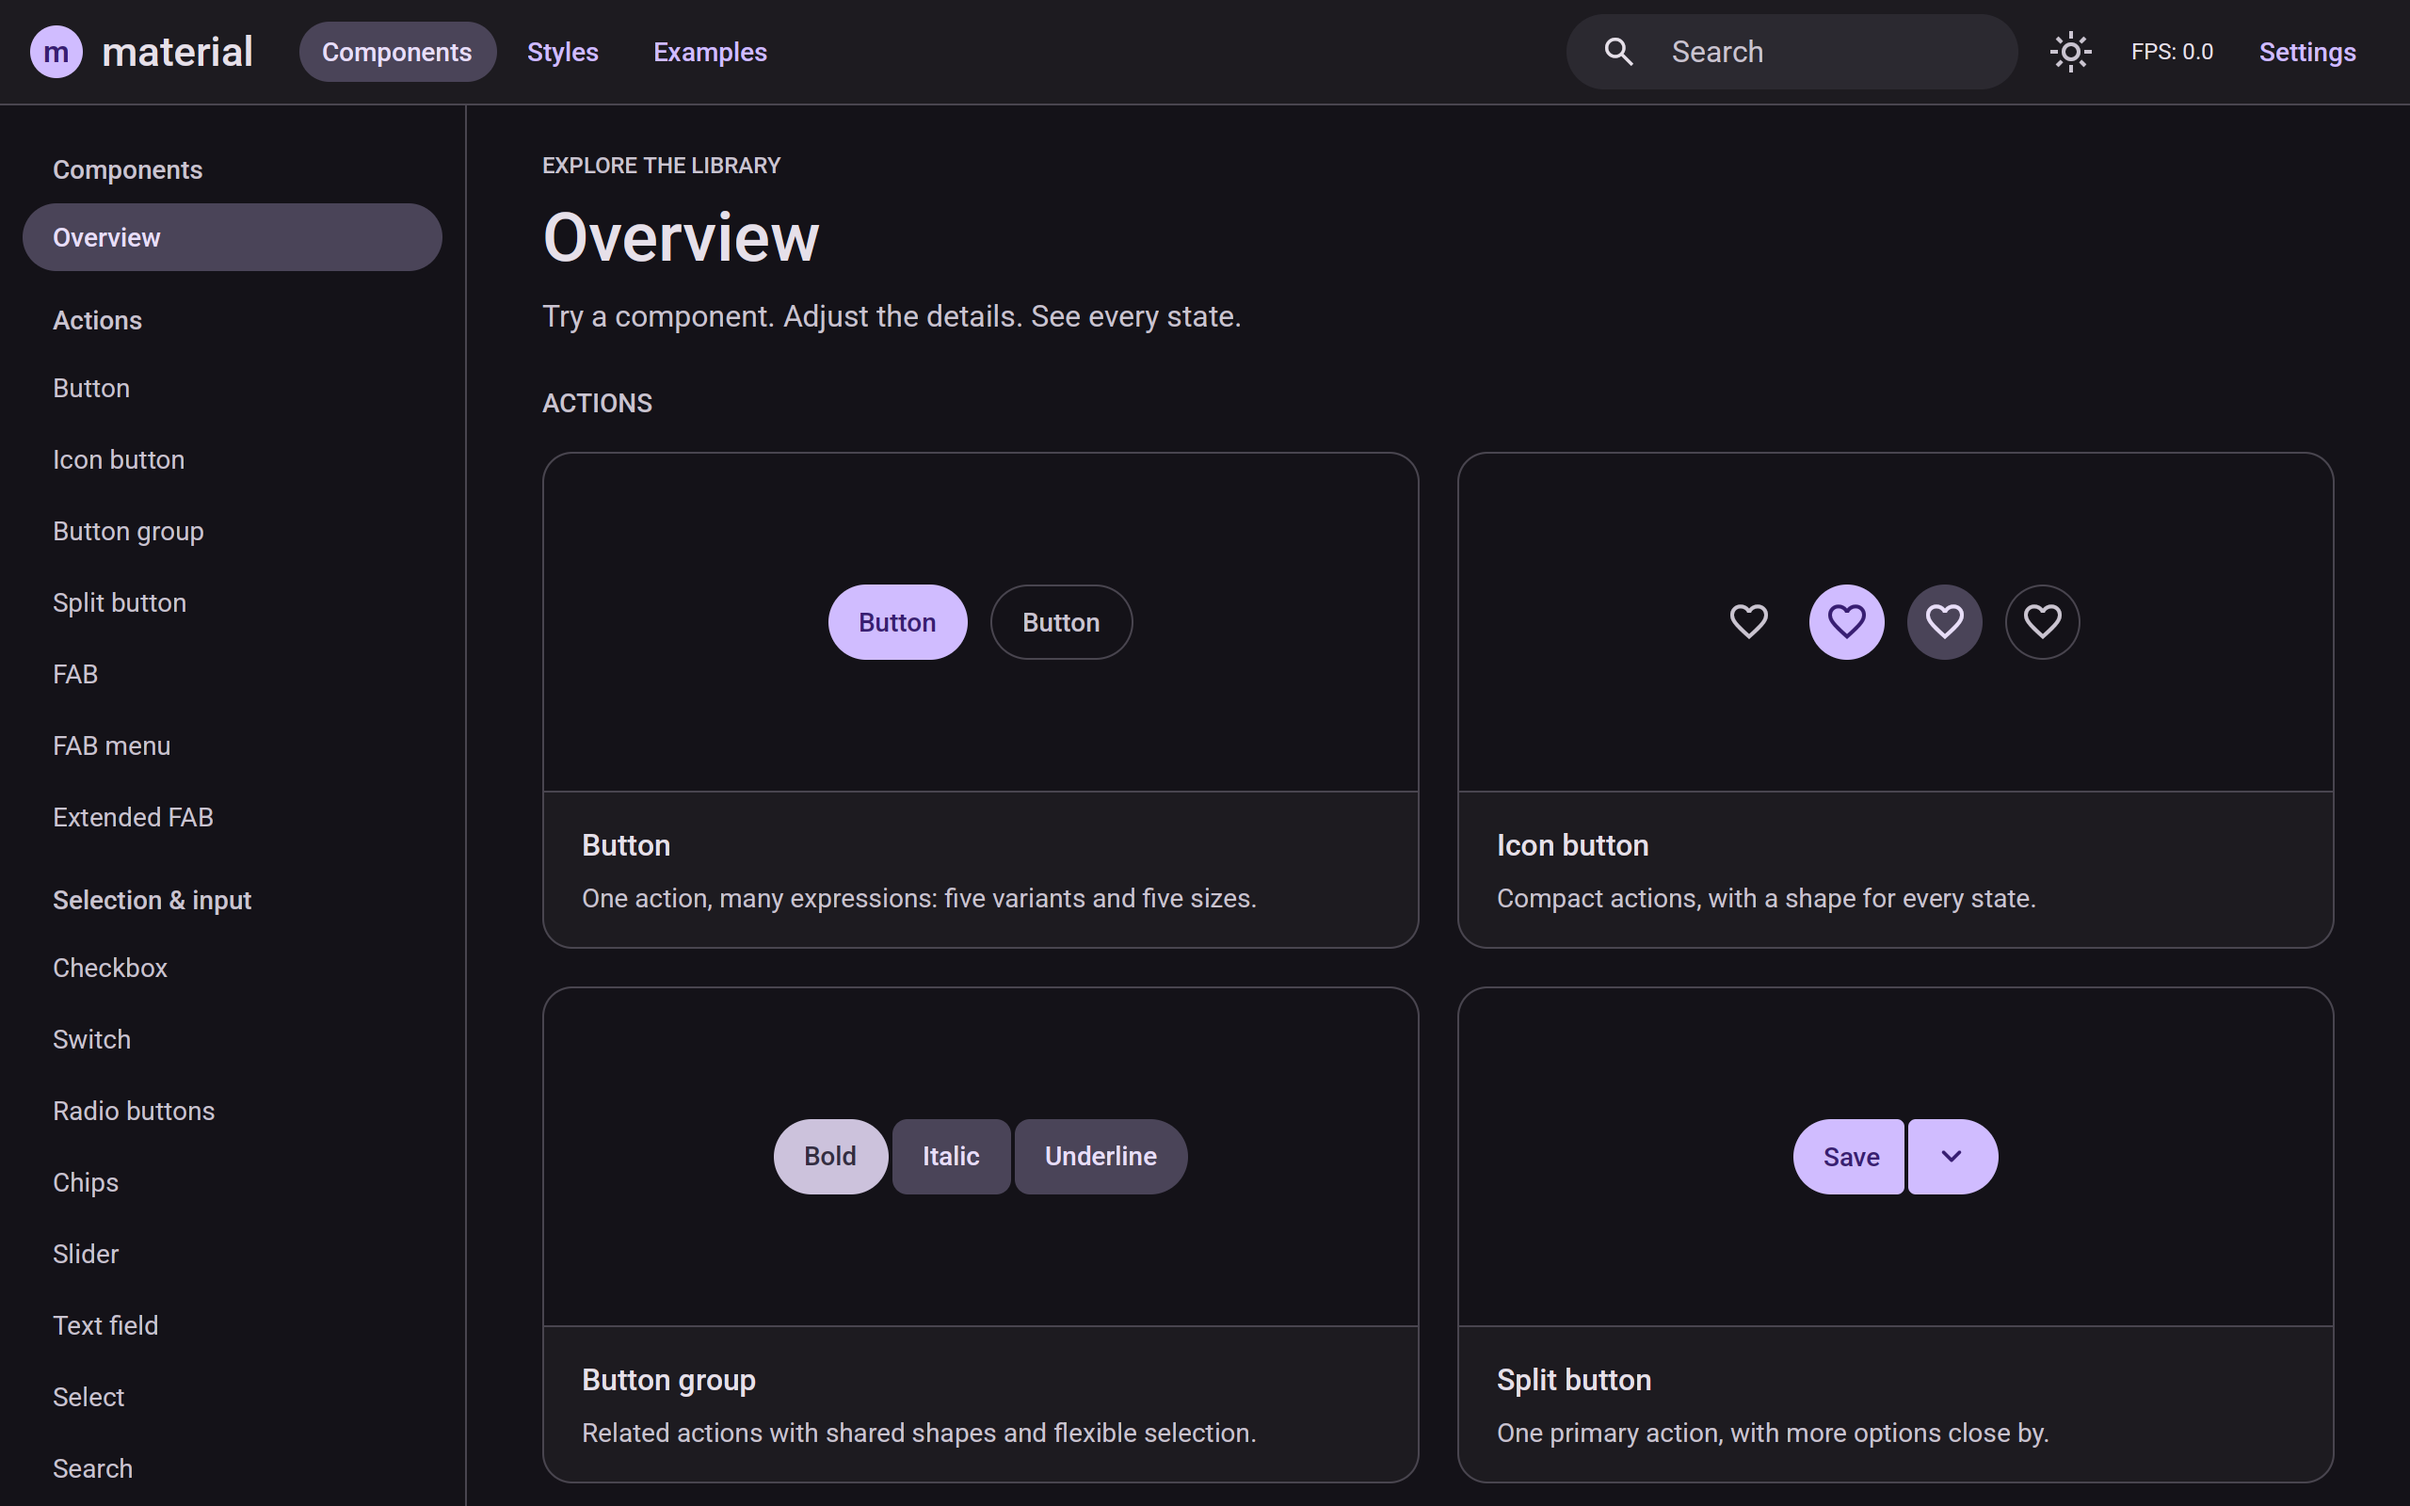
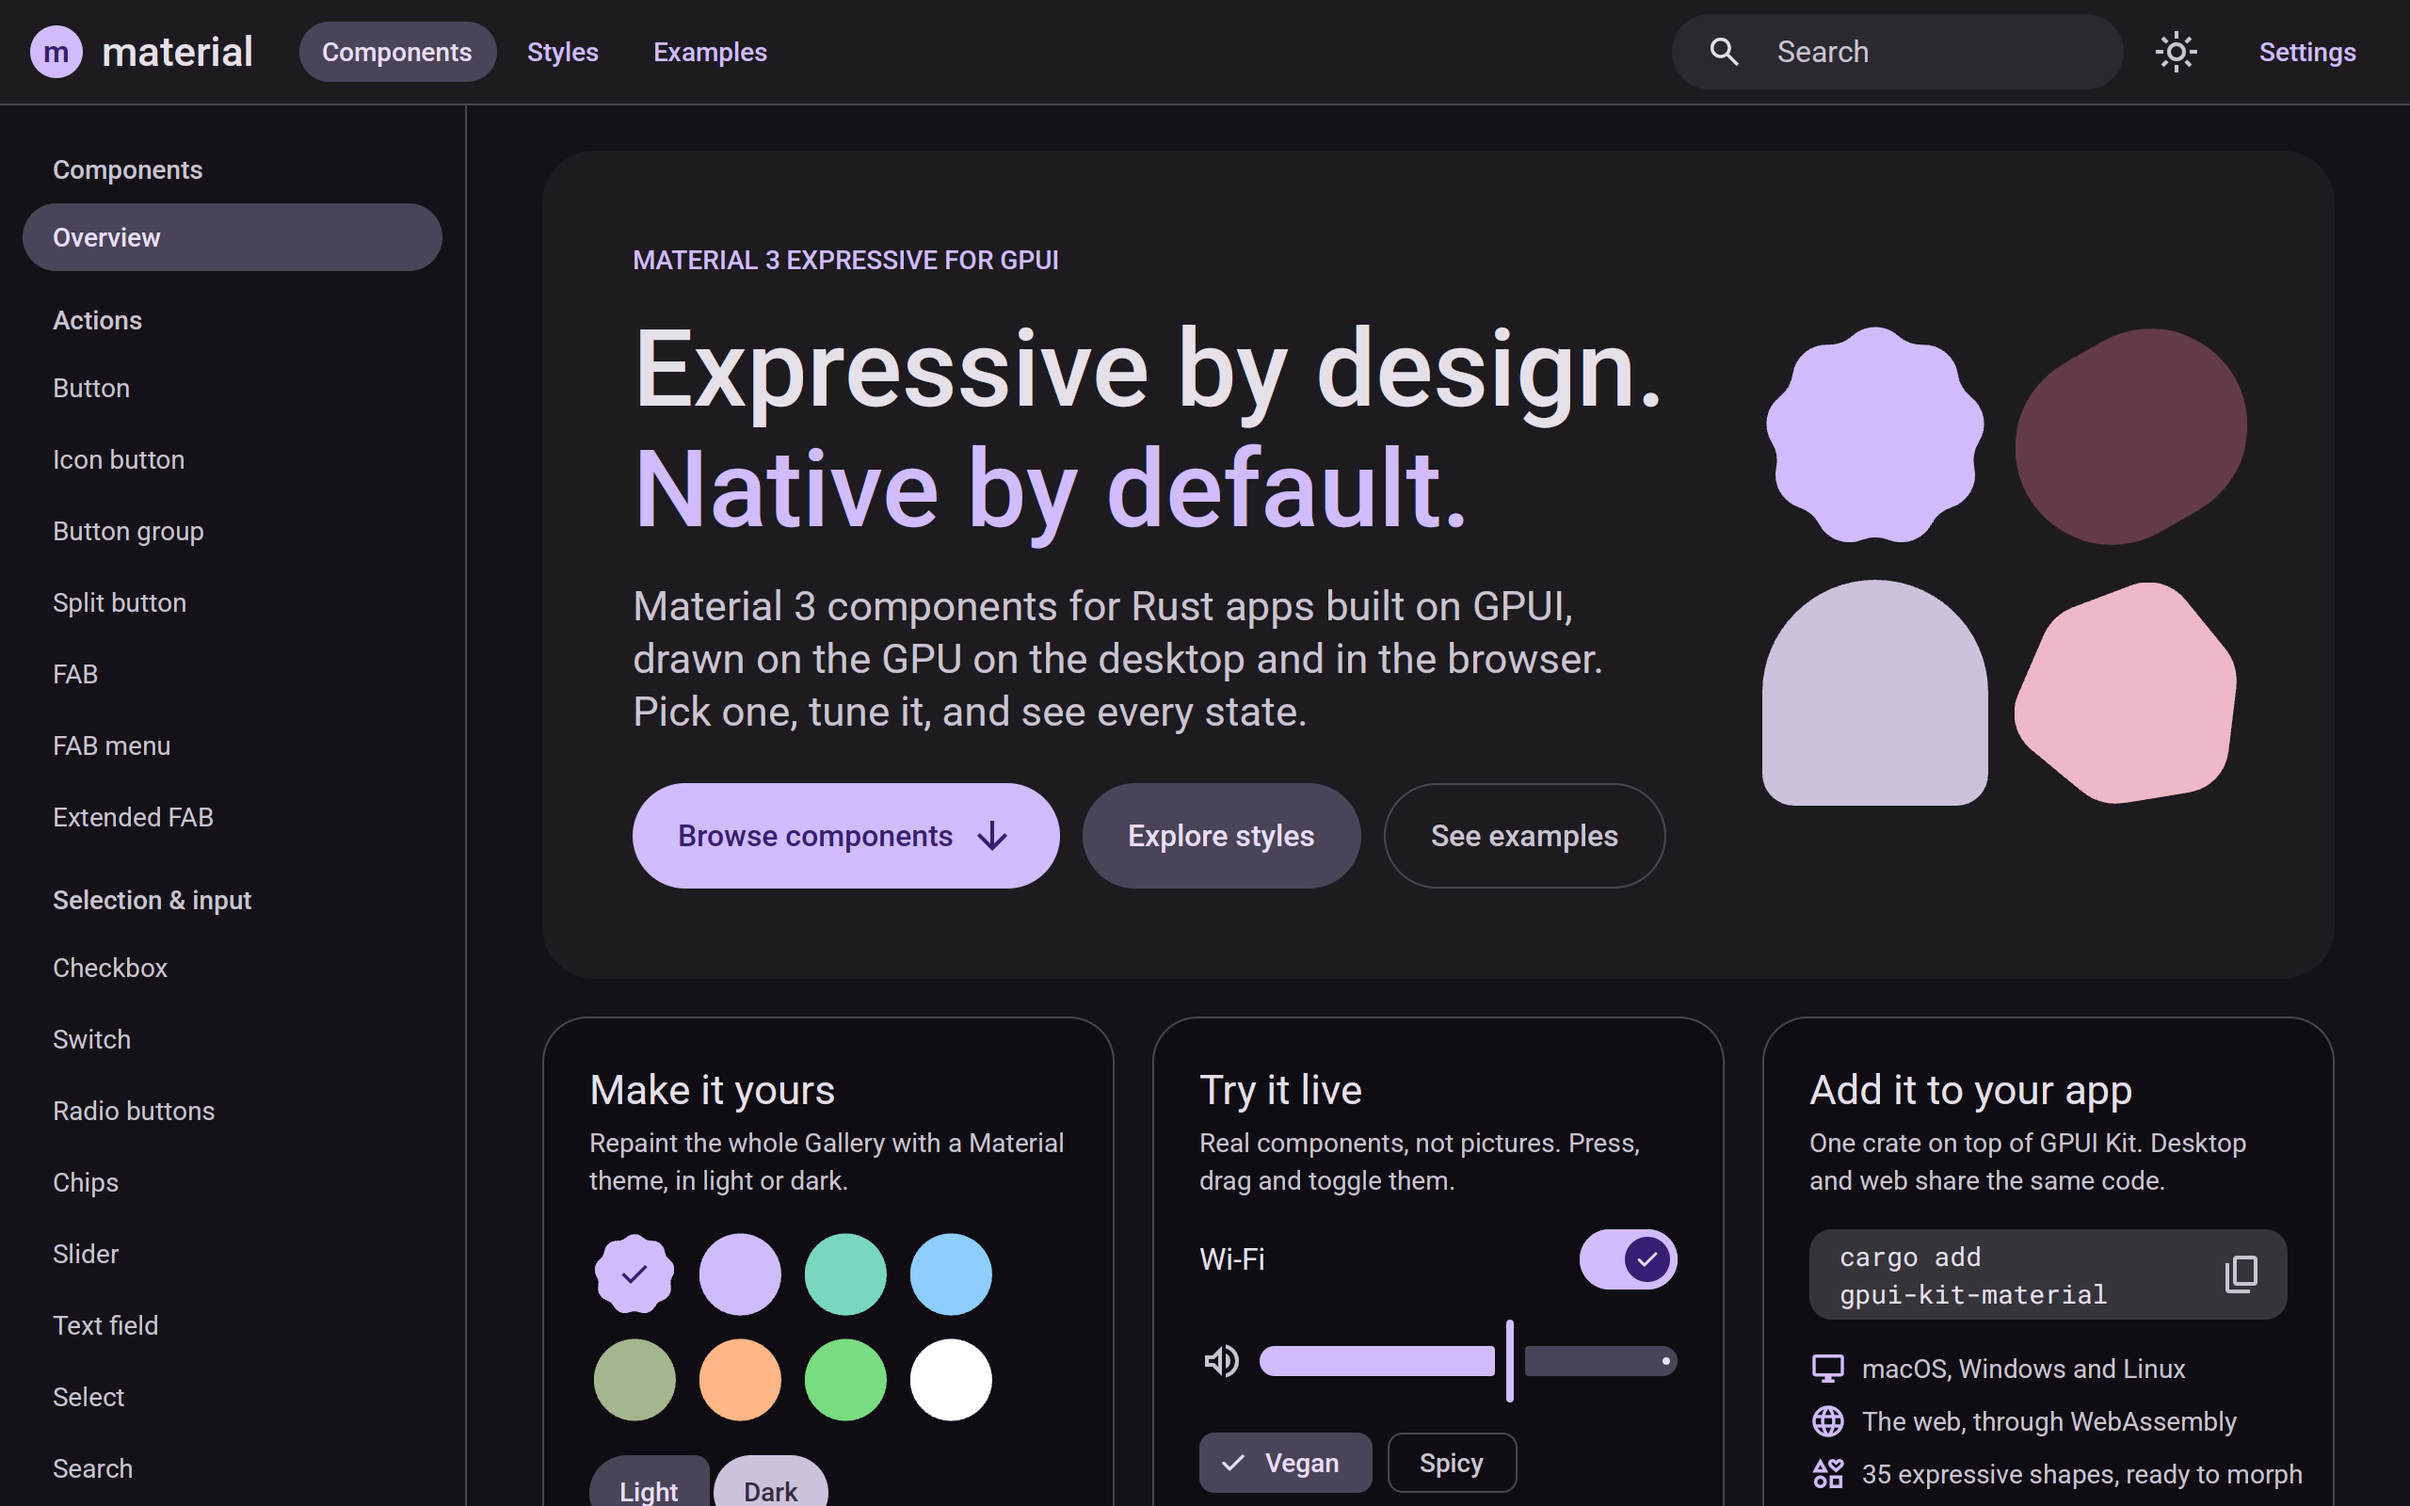
docs: the README screenshot shows the Gallery's new home
Captured from the release WASM site at 7141358, served locally, with
headless Chrome at 1280x800 and 2x in the dark theme.

diff --git a/README.md b/README.md
@@ -14,7 +14,7 @@ natively on macOS, Linux and Windows, and in the browser through WebAssembly.
 
 **[Try the live Gallery →](https://material.mizore.blog/gallery/)**
 
-![The Gallery's component overview, dark theme](docs/screenshots/gallery.png)
+![The Gallery's home in the dark theme: the hero with morphing shapes, theme swatches, live controls and the install line](docs/screenshots/gallery.png)
 
 ## Features
 
